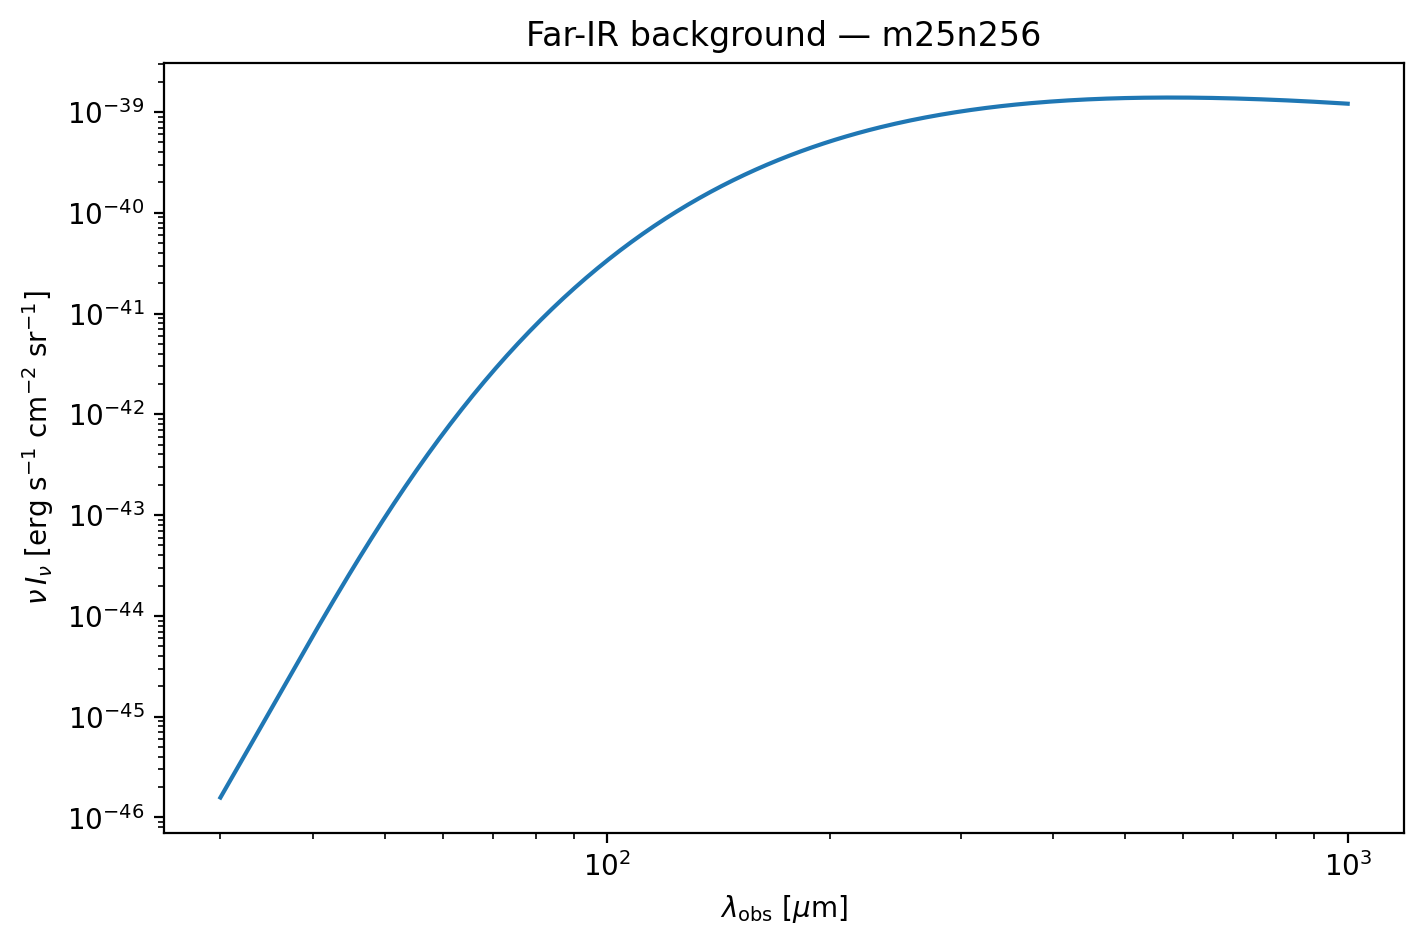
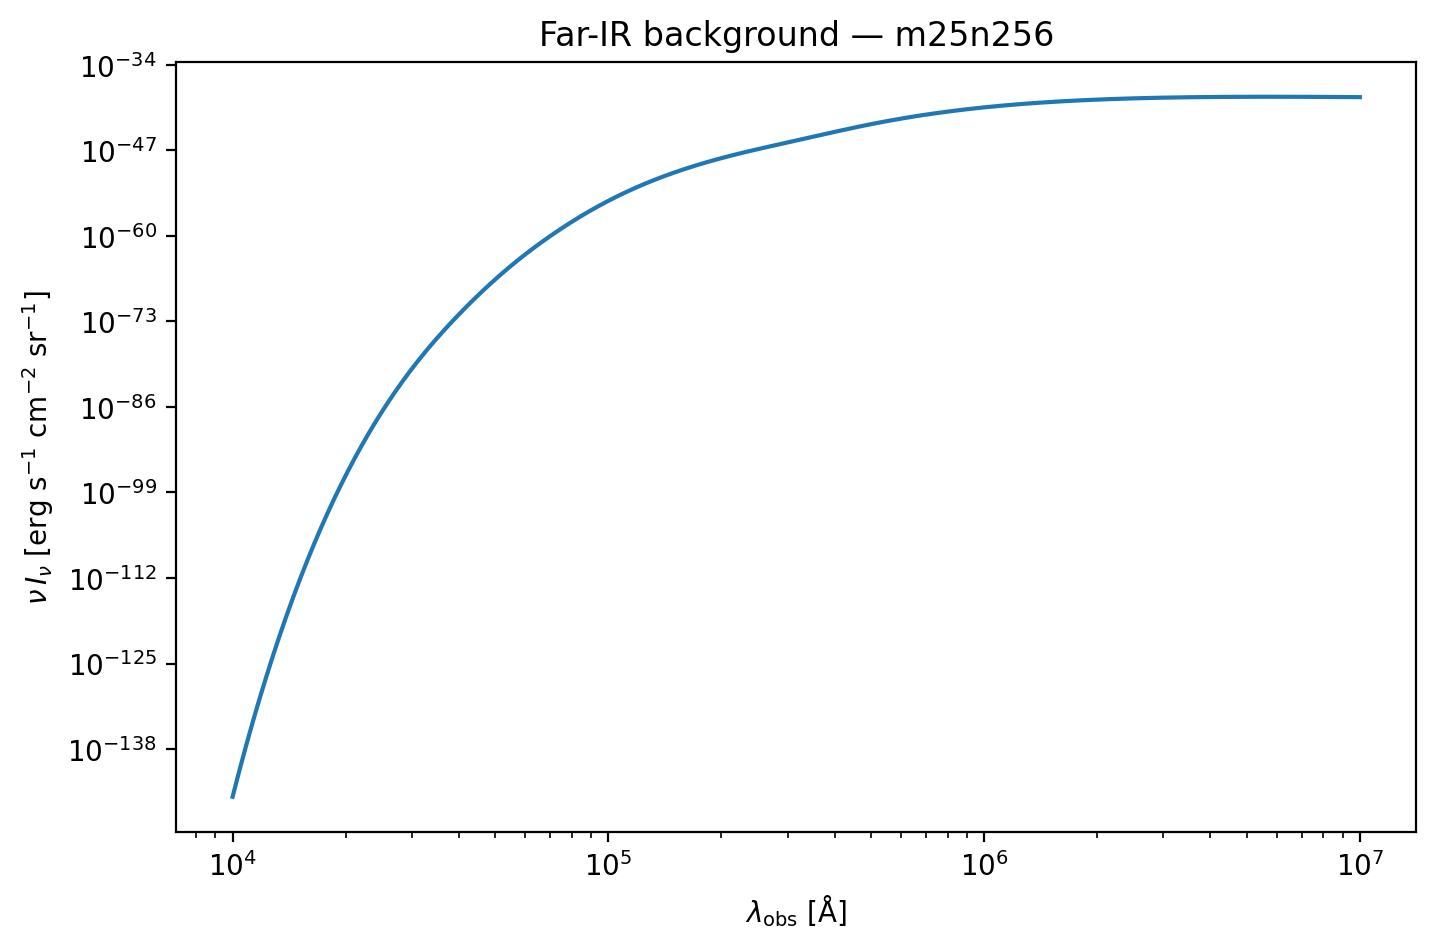
added run_combined.py to plot farIR and optical SED together. also changed logspace for farIR

diff --git a/scripts/run_combined.py b/scripts/run_combined.py
@@ -1,0 +1,115 @@
+"""
+Combined optical + far-IR cosmic background.
+
+Usage:
+    python scripts/run_combined.py --sim m25n256 --area 1.0 --z_min 0 --z_max 3
+"""
+import argparse
+import os
+import sys
+from pathlib import Path
+
+os.environ.setdefault('SPS_HOME', '/home/spujni/fsps')
+
+import numpy as np
+import matplotlib.pyplot as plt
+import astropy.units as u
+from astropy.constants import c as c_light
+
+sys.path.insert(0, str(Path(__file__).resolve().parent.parent))
+
+from src.config import load_config
+from src.backgrounds.optical import lightcone_optical_background
+from src.backgrounds.farIR import lightcone_farIR_background
+
+
+def main():
+    parser = argparse.ArgumentParser(
+        description="Combined optical + far-IR cosmic background")
+    parser.add_argument("--sim", default="m25n256",
+                        choices=["m25n256", "m50n512", "m100n1024"])
+    parser.add_argument("--area", type=float, default=1.0)
+    parser.add_argument("--z_min", type=float, default=0.0)
+    parser.add_argument("--z_max", type=float, default=3.0)
+    args = parser.parse_args()
+
+    cfg = load_config(args.sim)
+    print(f"Running on {cfg.name} (box={cfg.box_size_mpc_h} Mpc/h)\n")
+
+    # ── Optical / near-IR ─────────────────────────────────────────
+    print("=== Optical/NIR background ===")
+    lam_opt, I_nu_opt = lightcone_optical_background(
+        cfg, area_deg2=args.area, z_min=args.z_min, z_max=args.z_max
+    )
+    nu_opt = (c_light / (lam_opt * u.AA)).to_value(u.Hz)
+    nuInu_opt = nu_opt * I_nu_opt          # erg/s/cm²/sr
+
+    # ── Far-IR ────────────────────────────────────────────────────
+    print("\n=== Far-IR background ===")
+    lam_fir, I_lam_fir = lightcone_farIR_background(
+        cfg, area_deg2=args.area, z_min=args.z_min, z_max=args.z_max
+    )
+    nuInu_fir = lam_fir * I_lam_fir        # λ I_λ = ν I_ν  (erg/s/cm²/sr)
+
+    # ── Convert to nW m⁻² sr⁻¹ (standard CIB unit) ──────────────
+    # 1 erg/s/cm² = 1e-3 W/m² = 1e6 nW/m²
+    cgs_to_nWm2 = 1e6
+    nuInu_opt_nW = nuInu_opt * cgs_to_nWm2
+    nuInu_fir_nW = nuInu_fir * cgs_to_nWm2
+
+    # ── Convert wavelength to µm for readability ─────────────────
+    lam_opt_um = lam_opt * 1e-4
+    lam_fir_um = lam_fir * 1e-4
+
+    # ── Mask out negligible values so the log plot isn't wrecked ──
+    floor = 1e-6  # nW/m²/sr — anything below this is numerical noise
+    opt_plot = np.where(nuInu_opt_nW > floor, nuInu_opt_nW, np.nan)
+    fir_plot = np.where(nuInu_fir_nW > floor, nuInu_fir_nW, np.nan)
+
+    # ── Plot ──────────────────────────────────────────────────────
+    fig, ax = plt.subplots(figsize=(10, 6))
+
+    ax.loglog(lam_opt_um, opt_plot, lw=2, color='steelblue',
+              label='Optical / NIR (stellar)')
+    ax.loglog(lam_fir_um, fir_plot, lw=2, color='firebrick',
+              label='Far-IR (dust MBB)')
+
+    # Mark crossover if it exists within overlapping range
+    lam_min = max(lam_opt_um.min(), lam_fir_um.min())
+    lam_max = min(lam_opt_um.max(), lam_fir_um.max())
+    if lam_min < lam_max:
+        lam_common = np.logspace(np.log10(lam_min), np.log10(lam_max), 2000)
+        opt_interp = np.interp(lam_common, lam_opt_um, nuInu_opt_nW,
+                               left=0, right=0)
+        fir_interp = np.interp(lam_common, lam_fir_um, nuInu_fir_nW,
+                               left=0, right=0)
+        # Only look for crossovers where both are above the floor
+        both_valid = (opt_interp > floor) & (fir_interp > floor)
+        diff = np.where(both_valid, opt_interp - fir_interp, np.nan)
+        sign_changes = np.where(np.diff(np.sign(diff[~np.isnan(diff)])))[0]
+        for idx in sign_changes:
+            valid_idx = np.where(both_valid)[0][idx]
+            lam_cross = lam_common[valid_idx]
+            ax.axvline(lam_cross, ls='--', color='grey', alpha=0.6)
+            ax.annotate(f'crossover\n{lam_cross:.0f} µm',
+                        xy=(lam_cross, opt_interp[valid_idx]),
+                        fontsize=9, ha='center',
+                        xytext=(0, 30), textcoords='offset points',
+                        arrowprops=dict(arrowstyle='->', color='grey'))
+
+    ax.set_xlabel(r'$\lambda_{\rm obs}$ [$\mu$m]', fontsize=13)
+    ax.set_ylabel(r'$\nu\, I_\nu$ [nW m$^{-2}$ sr$^{-1}$]', fontsize=13)
+    ax.set_title(f'Cosmic background — {cfg.name}  '
+                 f'($z = {args.z_min}$–${args.z_max}$)', fontsize=14)
+    ax.legend(fontsize=12)
+    ax.grid(True, which='both', ls=':', alpha=0.4)
+
+    ax.set_xlim(0.1, 1100)
+
+    out = Path("figures") / f"combined_bg_{cfg.name}.png"
+    out.parent.mkdir(parents=True, exist_ok=True)
+    fig.savefig(out, dpi=200, bbox_inches='tight')
+    print(f"\nSaved → {out}")
+
+if __name__ == "__main__":
+    main()

diff --git a/src/backgrounds/farIR.py b/src/backgrounds/farIR.py
@@ -27,7 +27,7 @@ def _redshift_for_snap(cfg, snap):
         return get_redshift(obj)
     raise FileNotFoundError(f"Cannot get redshift for snap {snap}")
 
-def summed_mbb_single(cfg, snap, beta=2.0, n_points=200):
+def summed_mbb_single(cfg, snap, beta=2.0, n_points=500):
     """
     Rest-frame summed MBB SED for one snapshot.
     Returns wavelength (Angstrom), total SED.
@@ -43,7 +43,7 @@ def summed_mbb_single(cfg, snap, beta=2.0, n_points=200):
         lfir = f["galaxy_data/L_FIR"][:]
 
     T_eqv, mask = equivalent_dust_temperature(hdf5, z)
-    lam = np.logspace(3.5, 5, n_points)
+    lam = np.logspace(4, 5, n_points)
 
     total_sed = np.zeros_like(lam)
     for i in range(len(lfir)):
@@ -68,7 +68,7 @@ def build_lightcone(cfg, area_deg2=1.0, z_min=0.0, z_max=3.0):
     return lc_path
 
 def lightcone_farIR_background(cfg, area_deg2=1.0, z_min=0.0, z_max=3.0,
-                                beta=2.0, n_points=300):
+                                beta=2.0, n_points=500):
     """
     Compute the far-IR cosmic background intensity by summing
     redshifted MBB SEDs from all lightcone galaxies.
@@ -85,8 +85,8 @@ def lightcone_farIR_background(cfg, area_deg2=1.0, z_min=0.0, z_max=3.0,
         snap_arr = lc["snap"][:]
         gal_idx = lc["galaxy_index"][:]
 
-    # Observer-frame grid: ~30 µm – 1 mm
-    lam_obs = np.logspace(np.log10(3e5), np.log10(1e7), n_points)
+    # In farIR.py — DON'T extend this below ~8 µm
+    lam_obs = np.logspace(np.log10(8e4), np.log10(1e7), n_points)  # 8 µm – 1 mm
     omega_sr = area_deg2 * (np.pi / 180.0) ** 2
 
     total_intensity = np.zeros_like(lam_obs)
@@ -130,8 +130,11 @@ def lightcone_farIR_background(cfg, area_deg2=1.0, z_min=0.0, z_max=3.0,
                 continue
 
             d_L = cfg.cosmology.luminosity_distance(gz).to(u.cm).value
-            flux = sed / (4.0 * np.pi * d_L ** 2 * (1.0 + gz))
-
+            LSUN_ERG_S = 3.828e33  # erg/s per Lsun
+            
+            # inside the galaxy loop:
+            flux = sed * LSUN_ERG_S / (4.0 * np.pi * d_L ** 2 * (1.0 + gz))
+            
             if np.all(np.isfinite(flux)):
                 total_intensity += flux
 

diff --git a/scripts/run_farIR.py b/scripts/run_farIR.py
@@ -12,7 +12,6 @@ sys.path.insert(0, str(Path(__file__).resolve().parent.parent))
 from src.config import load_config
 from src.backgrounds.farIR import lightcone_farIR_background
 
-
 def main():
     parser = argparse.ArgumentParser(description="Far-IR cosmic background")
     parser.add_argument("--sim", default="m25n256",
@@ -31,8 +30,8 @@ def main():
 
     fig, ax = plt.subplots(figsize=(8, 5))
     nu_I_nu = intensity * lam  # λ I_λ = ν I_ν
-    ax.loglog(lam * 1e-4, nu_I_nu, lw=1.5)
-    ax.set_xlabel(r"$\lambda_\mathrm{obs}$ [$\mu$m]")
+    ax.loglog(lam, nu_I_nu, lw=1.5) 
+    ax.set_xlabel(r"$\lambda_\mathrm{obs}$ [Å]")
     ax.set_ylabel(r"$\nu\,I_\nu$ [erg s$^{-1}$ cm$^{-2}$ sr$^{-1}$]")
     ax.set_title(f"Far-IR background — {cfg.name}")
 
@@ -40,7 +39,6 @@ def main():
     out.parent.mkdir(parents=True, exist_ok=True)
     fig.savefig(out, dpi=200, bbox_inches="tight")
     print(f"Saved → {out}")
-
 
 if __name__ == "__main__":
     main()
